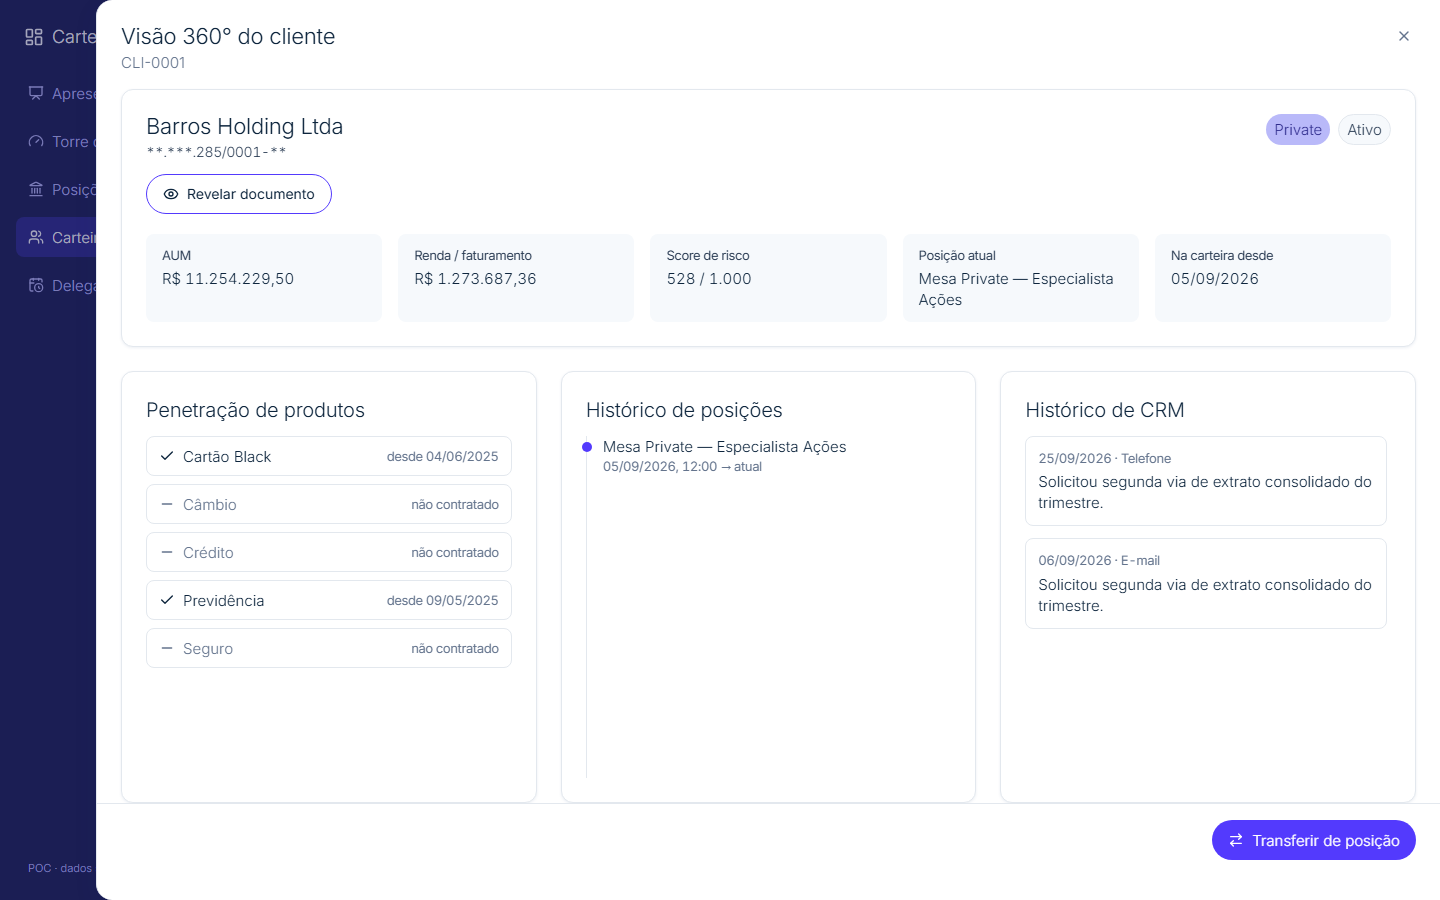
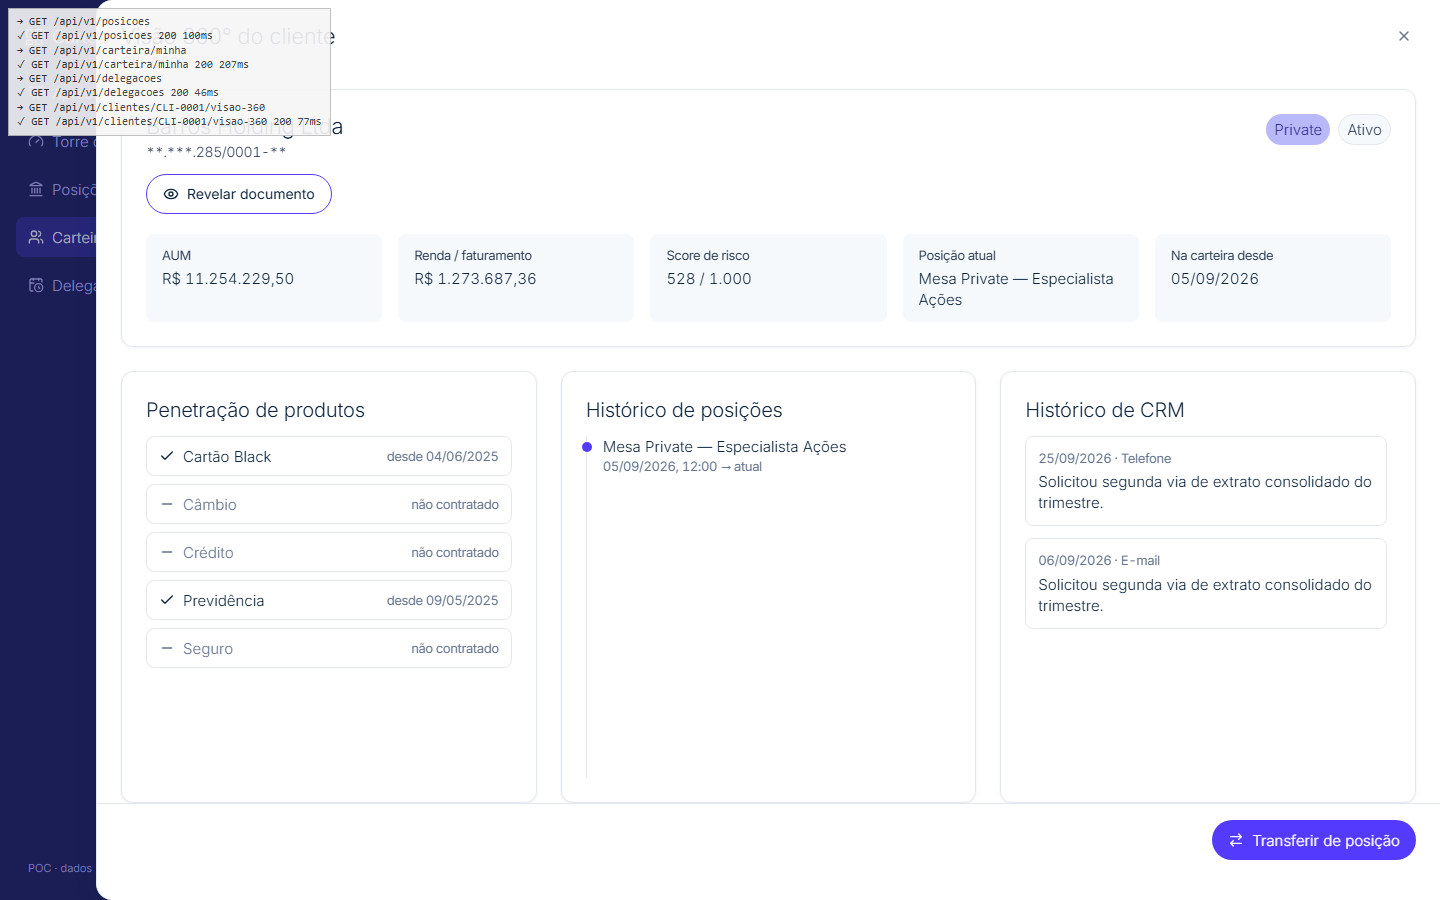
feat(gas): rastro visível das chamadas ao servidor; smoke valida serialização das respostas

Changed region(s): [[0.0, 0.0, 0.25, 0.1556]]

diff --git a/apps-script/runtime.html b/apps-script/runtime.html
@@ -28997,7 +28997,7 @@
   }
   function criarFetchGas() {
     return ((entrada, init) => new Promise((resolve, reject) => {
-      var _a2;
+      var _a2, _b;
       const url = new URL(String(entrada), "http://gas.local");
       const headers = {};
       new Headers(init == null ? void 0 : init.headers).forEach((v, k) => {
@@ -29017,14 +29017,22 @@
         }
       }
       const servidor = run();
+      const rastro = globalThis.CARTEIRA_RASTRO;
+      const t0 = Date.now();
+      const rotulo = "".concat((_a2 = init == null ? void 0 : init.method) != null ? _a2 : "GET", " ").concat(url.pathname);
+      rastro == null ? void 0 : rastro("\u2192 ".concat(rotulo));
       if (!servidor) {
         reject(new Error("google.script.run indispon\xEDvel"));
         return;
       }
-      servidor.withSuccessHandler((r2) => resolve(new Response(r2.status === 204 ? null : JSON.stringify(r2.corpo), { status: r2.status, headers: r2.headers }))).withFailureHandler((e) => {
+      servidor.withSuccessHandler((r2) => {
+        rastro == null ? void 0 : rastro("\u2713 ".concat(rotulo, " ").concat(r2 == null ? void 0 : r2.status, " ").concat(Date.now() - t0, "ms"));
+        resolve(new Response(r2.status === 204 ? null : JSON.stringify(r2.corpo), { status: r2.status, headers: r2.headers }));
+      }).withFailureHandler((e) => {
         var _a3;
-        return reject(new Error((_a3 = e == null ? void 0 : e.message) != null ? _a3 : "Falha ao chamar o servidor do Apps Script"));
-      }).apiChamar({ metodo: (_a2 = init == null ? void 0 : init.method) != null ? _a2 : "GET", caminho: url.pathname, consulta, headers, corpo, corpoInvalido });
+        rastro == null ? void 0 : rastro("\u2717 ".concat(rotulo, " ").concat(e == null ? void 0 : e.message, " ").concat(Date.now() - t0, "ms"));
+        reject(new Error((_a3 = e == null ? void 0 : e.message) != null ? _a3 : "Falha ao chamar o servidor do Apps Script"));
+      }).apiChamar({ metodo: (_b = init == null ? void 0 : init.method) != null ? _b : "GET", caminho: url.pathname, consulta, headers, corpo, corpoInvalido });
     }));
   }
 

diff --git a/scripts/gas-smoke.ts b/scripts/gas-smoke.ts
@@ -91,5 +91,18 @@ const negado = chamar('GET', '/api/v1/clientes/CLI-0300/visao-360', { papel: 'PO
 ok('acesso negado → 403 problem+json', negado.status === 403 && negado.corpo.codigo_dominio === 'ACESSO_NEGADO');
 const reset = chamar('POST', '/api/v1/simulacao/reset');
 ok('reiniciar cenário', reset.status === 200 && chamar('GET', '/api/v1/posicoes/POS-AG01-003/historico', { papel: 'GG' }).corpo.itens.length === 1);
+// O retorno de google.script.run só aceita JSON puro: sem undefined, Date, NaN/Infinity ou funções (senão o front nunca recebe a resposta)
+const invalido = (v: unknown, caminho = '$'): string | null => {
+  if (v === undefined) return `${caminho} é undefined`;
+  if (typeof v === 'function' || v instanceof Date) return `${caminho} não serializável`;
+  if (typeof v === 'number' && !Number.isFinite(v)) return `${caminho} é ${v}`;
+  if (v && typeof v === 'object') for (const [k, x] of Object.entries(v)) { const r = invalido(x, `${caminho}.${k}`); if (r) return r; }
+  return null;
+};
+for (const [caminho, papel] of [['/api/v1/simulacao/atores', 'GG'], ['/api/v1/insights/agencia', 'GG'], ['/api/v1/insights/desbalanceamento', 'GG'], ['/api/v1/posicoes', 'GG'], ['/api/v1/delegacoes', 'GG'], ['/api/v1/carteira/minha', 'POS-AG01-001'], ['/api/v1/carteira/clientes', 'GG']] as const) {
+  const r = chamar('GET', caminho, { papel, consulta: caminho.endsWith('clientes') ? { limit: '50' } : {} });
+  const problema = invalido(r);
+  ok(`retorno serializável ${caminho}`, r.status === 200 && problema === null, `${r.status} ${problema ?? ''} ${(JSON.stringify(r).length / 1024).toFixed(0)} KB`);
+}
 console.log(falhas === 0 ? '\nBackend do Apps Script OK no sandbox restrito.' : `\n${falhas} falha(s).`);
 process.exit(falhas === 0 ? 0 : 1);

diff --git a/frontend/sdk/src/gas.ts b/frontend/sdk/src/gas.ts
@@ -28,10 +28,14 @@ export function criarFetchGas(): typeof fetch {
         try { corpo = JSON.parse(init.body); } catch { corpoInvalido = true; }
       }
       const servidor = run();
+      const rastro = (globalThis as { CARTEIRA_RASTRO?: (m: string) => void }).CARTEIRA_RASTRO;
+      const t0 = Date.now();
+      const rotulo = `${init?.method ?? 'GET'} ${url.pathname}`;
+      rastro?.(`→ ${rotulo}`);
       if (!servidor) { reject(new Error('google.script.run indisponível')); return; }
       servidor
-        .withSuccessHandler((r) => resolve(new Response(r.status === 204 ? null : JSON.stringify(r.corpo), { status: r.status, headers: r.headers })))
-        .withFailureHandler((e) => reject(new Error(e?.message ?? 'Falha ao chamar o servidor do Apps Script')))
+        .withSuccessHandler((r) => { rastro?.(`✓ ${rotulo} ${r?.status} ${Date.now() - t0}ms`); resolve(new Response(r.status === 204 ? null : JSON.stringify(r.corpo), { status: r.status, headers: r.headers })); })
+        .withFailureHandler((e) => { rastro?.(`✗ ${rotulo} ${e?.message} ${Date.now() - t0}ms`); reject(new Error(e?.message ?? 'Falha ao chamar o servidor do Apps Script')); })
         .apiChamar({ metodo: init?.method ?? 'GET', caminho: url.pathname, consulta, headers, corpo, corpoInvalido });
     })) as typeof fetch;
 }

diff --git a/scripts/build-gas.ts b/scripts/build-gas.ts
@@ -151,6 +151,12 @@ async function front(): Promise<void> {
       // diagnóstico de carga: registra erros de cada script (arquivo em carga = window.__etapa) e o shell os mostra se algo faltar
       window.CARTEIRA_ERROS = [];
       window.__etapa = 'inicio';
+      window.CARTEIRA_RASTRO = function (msg) {
+        window.__rastro = (window.__rastro || []).concat(msg).slice(-8);
+        var r = document.getElementById('carteira-rastro');
+        if (!r) { r = document.createElement('div'); r.id = 'carteira-rastro'; r.style.cssText = 'position:fixed;left:8px;top:8px;padding:6px 8px;background:#f5f5f5;color:#333;border:1px solid #bbb;font:11px/1.3 monospace;white-space:pre;z-index:99998;opacity:.9;pointer-events:none'; document.body.appendChild(r); }
+        r.textContent = window.__rastro.join(String.fromCharCode(10));
+      };
       window.CARTEIRA_MOSTRAR = function (msg) {
         window.CARTEIRA_ERROS.push(msg);
         var d = document.getElementById('carteira-erros');

diff --git a/apps-script/index.html b/apps-script/index.html
@@ -9,6 +9,12 @@
       // diagnóstico de carga: registra erros de cada script (arquivo em carga = window.__etapa) e o shell os mostra se algo faltar
       window.CARTEIRA_ERROS = [];
       window.__etapa = 'inicio';
+      window.CARTEIRA_RASTRO = function (msg) {
+        window.__rastro = (window.__rastro || []).concat(msg).slice(-8);
+        var r = document.getElementById('carteira-rastro');
+        if (!r) { r = document.createElement('div'); r.id = 'carteira-rastro'; r.style.cssText = 'position:fixed;left:8px;top:8px;padding:6px 8px;background:#f5f5f5;color:#333;border:1px solid #bbb;font:11px/1.3 monospace;white-space:pre;z-index:99998;opacity:.9;pointer-events:none'; document.body.appendChild(r); }
+        r.textContent = window.__rastro.join(String.fromCharCode(10));
+      };
       window.CARTEIRA_MOSTRAR = function (msg) {
         window.CARTEIRA_ERROS.push(msg);
         var d = document.getElementById('carteira-erros');

diff --git a/frontend/shell/src/main.gas.tsx b/frontend/shell/src/main.gas.tsx
@@ -10,12 +10,12 @@ const raiz = document.getElementById('raiz')!;
 
 /** Erro de renderização não deve deixar tela branca: mostra a causa. */
 class Contencao extends React.Component<{ children: React.ReactNode }, { erro: Error | null }> {
-  state = { erro: null as Error | null };
+  override state = { erro: null as Error | null };
   static getDerivedStateFromError(erro: Error) { return { erro }; }
-  componentDidCatch(erro: Error, info: React.ErrorInfo) {
+  override componentDidCatch(erro: Error, info: React.ErrorInfo) {
     w.CARTEIRA_MOSTRAR?.(`render: ${erro.message}\n${erro.stack ?? ''}\n${info.componentStack ?? ''}`);
   }
-  render() {
+  override render() {
     return this.state.erro ? <p style={{ fontFamily: 'sans-serif', padding: 24, color: '#7a0000' }}>Erro ao exibir a tela: {this.state.erro.message}</p> : this.props.children;
   }
 }
